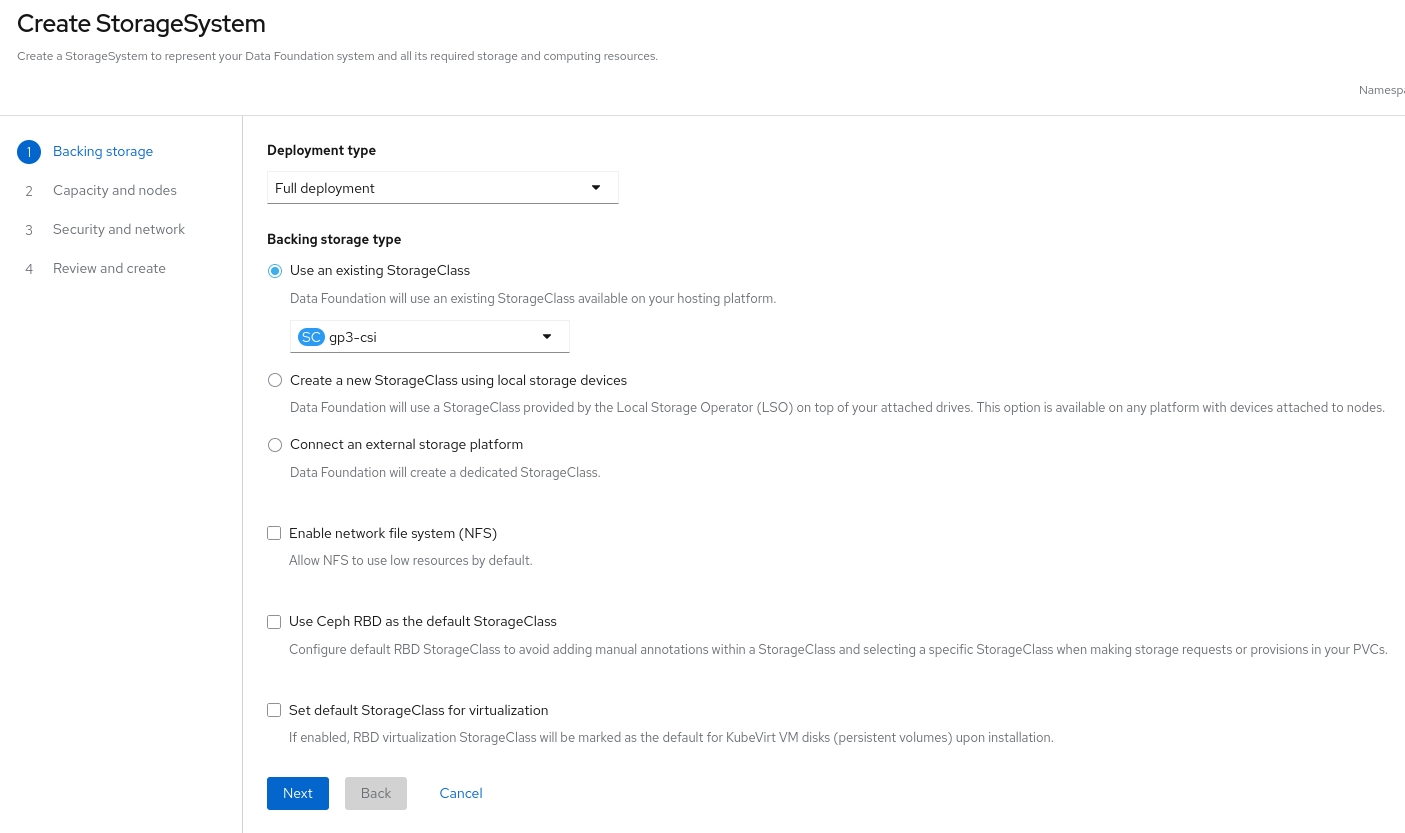
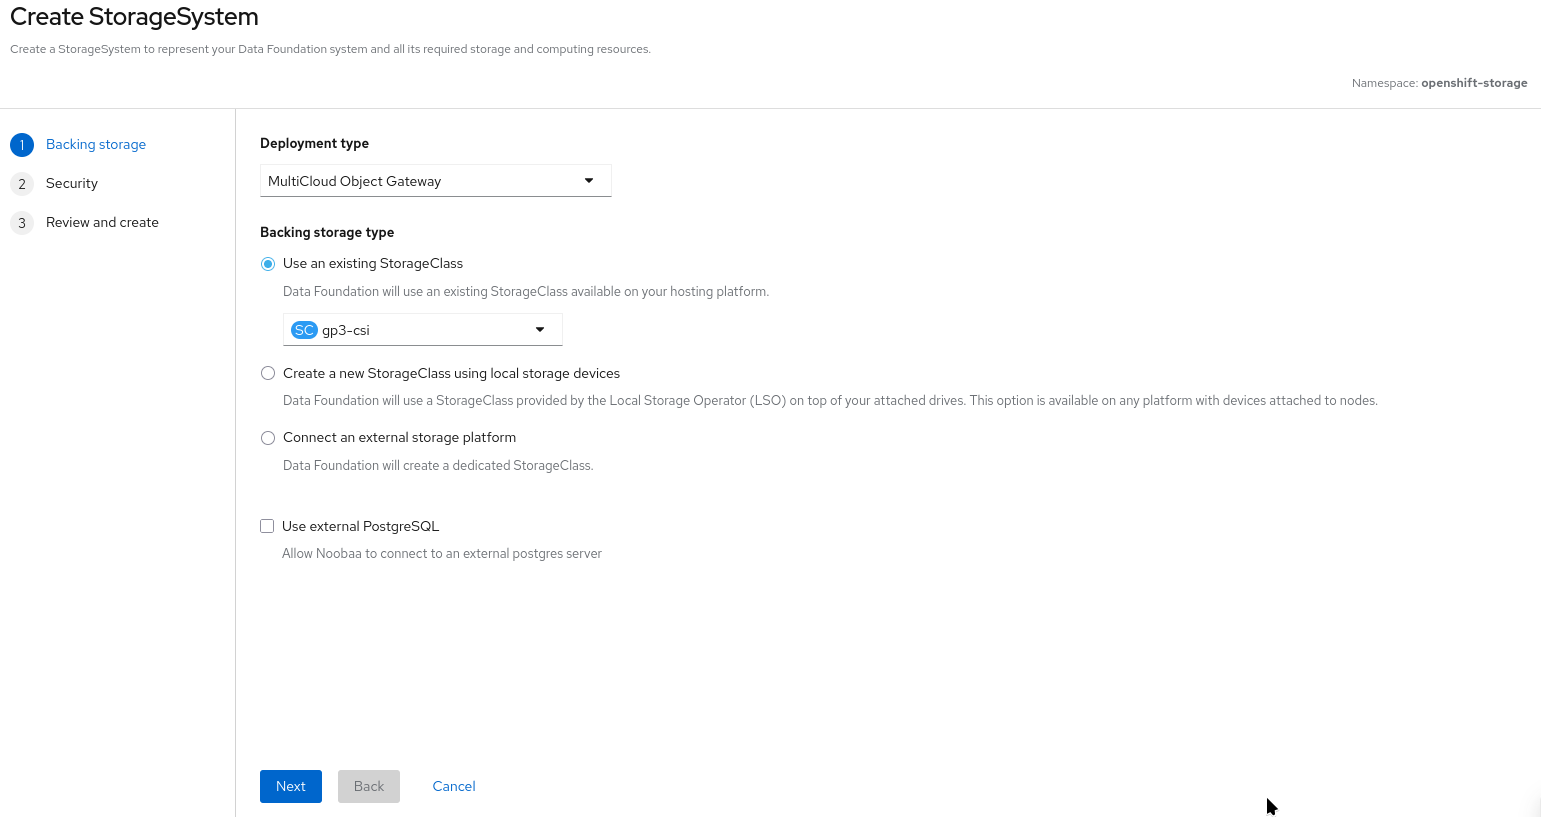
Deploying to gh-pages from @ aolle/quay-workshop@f08661413f25d3d17daa2d0c50e901d32d576070 🚀

diff --git a/setup.html b/setup.html
@@ -399,7 +399,36 @@
 <h2 id="storage"><a class="anchor" href="#storage"></a>Creating the ODF Cluster</h2>
 <div class="sectionbody">
 <div class="paragraph">
-<p>Deploy an OpenShift Data Foundation (ODF) <code>StorageCluster</code> using the OpenShift web console.</p>
+<p>OpenShift Data Foundation (ODF) offers multiple deployment models depending on the storage capabilities required by the workload. In this guide, we focus on
+the <strong>Multicloud Object Gateway</strong> (MCG) mode, which provides a lightweight and S3-centric object storage service.</p>
+</div>
+<div class="paragraph">
+<p>The <strong>Multicloud Object Gateway</strong> (MCG) is the lightweight deployment mode of ODF. Unlike the full storage deployment that includes a complete Ceph cluster, the MCG mode provides only an S3-compatible object storage gateway layer. It is primarily designed for:</p>
+</div>
+<div class="ulist">
+<ul>
+<li>
+<p>Distributed caching use cases</p>
+</li>
+<li>
+<p>Cloud-to-cloud or on-prem-to-cloud replication</p>
+</li>
+<li>
+<p>Unified access to remote buckets</p>
+</li>
+<li>
+<p>Workloads that require S3 object storage only (no block or file storage)</p>
+</li>
+</ul>
+</div>
+<div class="paragraph">
+<p>Because the MCG does not deploy a full Ceph data plane, it has significantly lower resource consumption and is often referred to as a <strong>lightweight mode</strong>.</p>
+</div>
+<div class="paragraph">
+<p>With this context in mind, the next step is to create the ODF resources in the cluster. The deployment process begins by creating an ODF <code>StorageCluster</code> through the OpenShift web console.</p>
+</div>
+<div class="paragraph">
+<p>Proceed with the following steps to deploy the ODF <code>StorageCluster</code> in Multicloud Object Gateway mode.</p>
 </div>
 <div class="ulist">
 <ul>
@@ -418,6 +447,16 @@
 <div class="content">
 <img src="_images/install/odf1.png" alt="odf1">
 </div>
+</div>
+<div class="paragraph">
+<p>Deployment type:</p>
+</div>
+<div class="ulist">
+<ul>
+<li>
+<p>MultiCloud Object Gateway.</p>
+</li>
+</ul>
 </div>
 <div class="paragraph">
 <p>Select the backing storage type:</p>
@@ -440,28 +479,13 @@
 <div class="ulist">
 <ul>
 <li>
-<p>Select the desired capacity and nodes.</p>
-</li>
-<li>
-<p>Click <code>Next</code>.</p>
+<p>Then click <code>Next</code> and <code>Create StorageSystem</code>.</p>
 </li>
 </ul>
 </div>
 <div class="imageblock">
 <div class="content">
 <img src="_images/install/odf3.png" alt="odf3">
-</div>
-</div>
-<div class="ulist">
-<ul>
-<li>
-<p>Leave the default options for <strong>Security and network</strong> and <strong>Review and create</strong>. Then click <code>Next</code> and <code>Create StorageSystem</code>, respectively.</p>
-</li>
-</ul>
-</div>
-<div class="imageblock">
-<div class="content">
-<img src="_images/install/odf4.png" alt="odf4">
 </div>
 </div>
 <div class="admonitionblock note">
